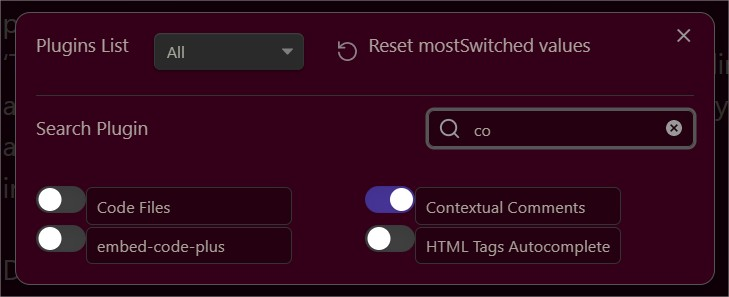
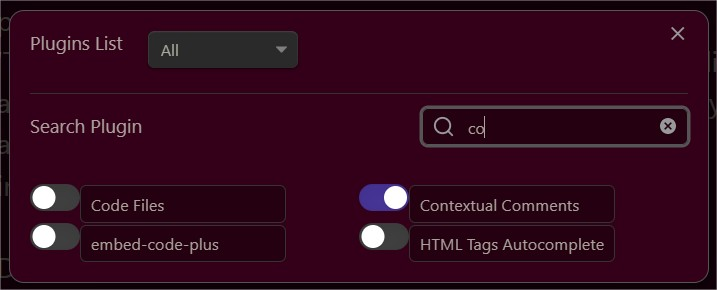
reset condition added

diff --git a/main.ts b/main.ts
@@ -82,7 +82,7 @@ class QuickPluginSwitcherModal extends Modal {
 		this.plugin = plugin;
 	}
 	qpsItems: HTMLElement
-	listItems:PluginInfo[] =[]
+	listItems: PluginInfo[] = []
 
 	onOpen() {
 		console.log("opening")
@@ -112,15 +112,17 @@ class QuickPluginSwitcherModal extends Modal {
 				await this.plugin.saveSettings();
 			})
 
-		new ExtraButtonComponent(headBar).setIcon("reset").setTooltip("Reset mostSwitched to 0").onClick(async () => {
-			this.plugin.settings.allPluginsList = []
-			this.plugin.getPluginsInfo()
-			this.plugin.reset = true
-			this.onOpen()
-			await this.plugin.saveSettings();
-		})
+		if (this.plugin.settings.filters === "mostSwitched") {
+			new ExtraButtonComponent(headBar).setIcon("reset").setTooltip("Reset mostSwitched to 0").onClick(async () => {
+				this.plugin.settings.allPluginsList = []
+				this.plugin.getPluginsInfo()
+				this.plugin.reset = true
+				this.onOpen()
+				await this.plugin.saveSettings();
+			})
 
-		headBar.createEl("span", { text: "Reset mostSwitched values", cls: ["reset-desc"] })
+			headBar.createEl("span", { text: "Reset mostSwitched values", cls: ["reset-desc"] })
+		}
 	}
 
 	addSearch(contentEl: HTMLElement) {
@@ -134,16 +136,16 @@ class QuickPluginSwitcherModal extends Modal {
 					.onChange(async (value: string) => {
 						const listItems = []
 						for (const plugin of this.plugin.settings.allPluginsList)
-						if (plugin.name.toLowerCase().includes(value)) {
-							listItems.push(plugin)
-							}		
+							if (plugin.name.toLowerCase().includes(value)) {
+								listItems.push(plugin)
+							}
 						this.qpsItems.empty()
-						this.addItems(contentEl, listItems)						
+						this.addItems(contentEl, listItems)
 					});
 			});
 	}
-	
-	addItems(contentEl: HTMLElement,listItems: PluginInfo[]) {
+
+	addItems(contentEl: HTMLElement, listItems: PluginInfo[]) {
 		this.qpsItems = contentEl.createEl("div", { cls: ["qps-items"] });
 		// mostSwitched at start of the list
 		if (this.plugin.settings.filters === "mostSwitched" && !this.plugin.reset) {

diff --git a/README.md b/README.md
@@ -10,4 +10,4 @@ This plugin simplifies the process of managing your plugins, making it easy to e
     
 ![search](search.jpg)
 
-![filter](mostSwitched.jpg)
+![filter&search](filter&search.jpg)
